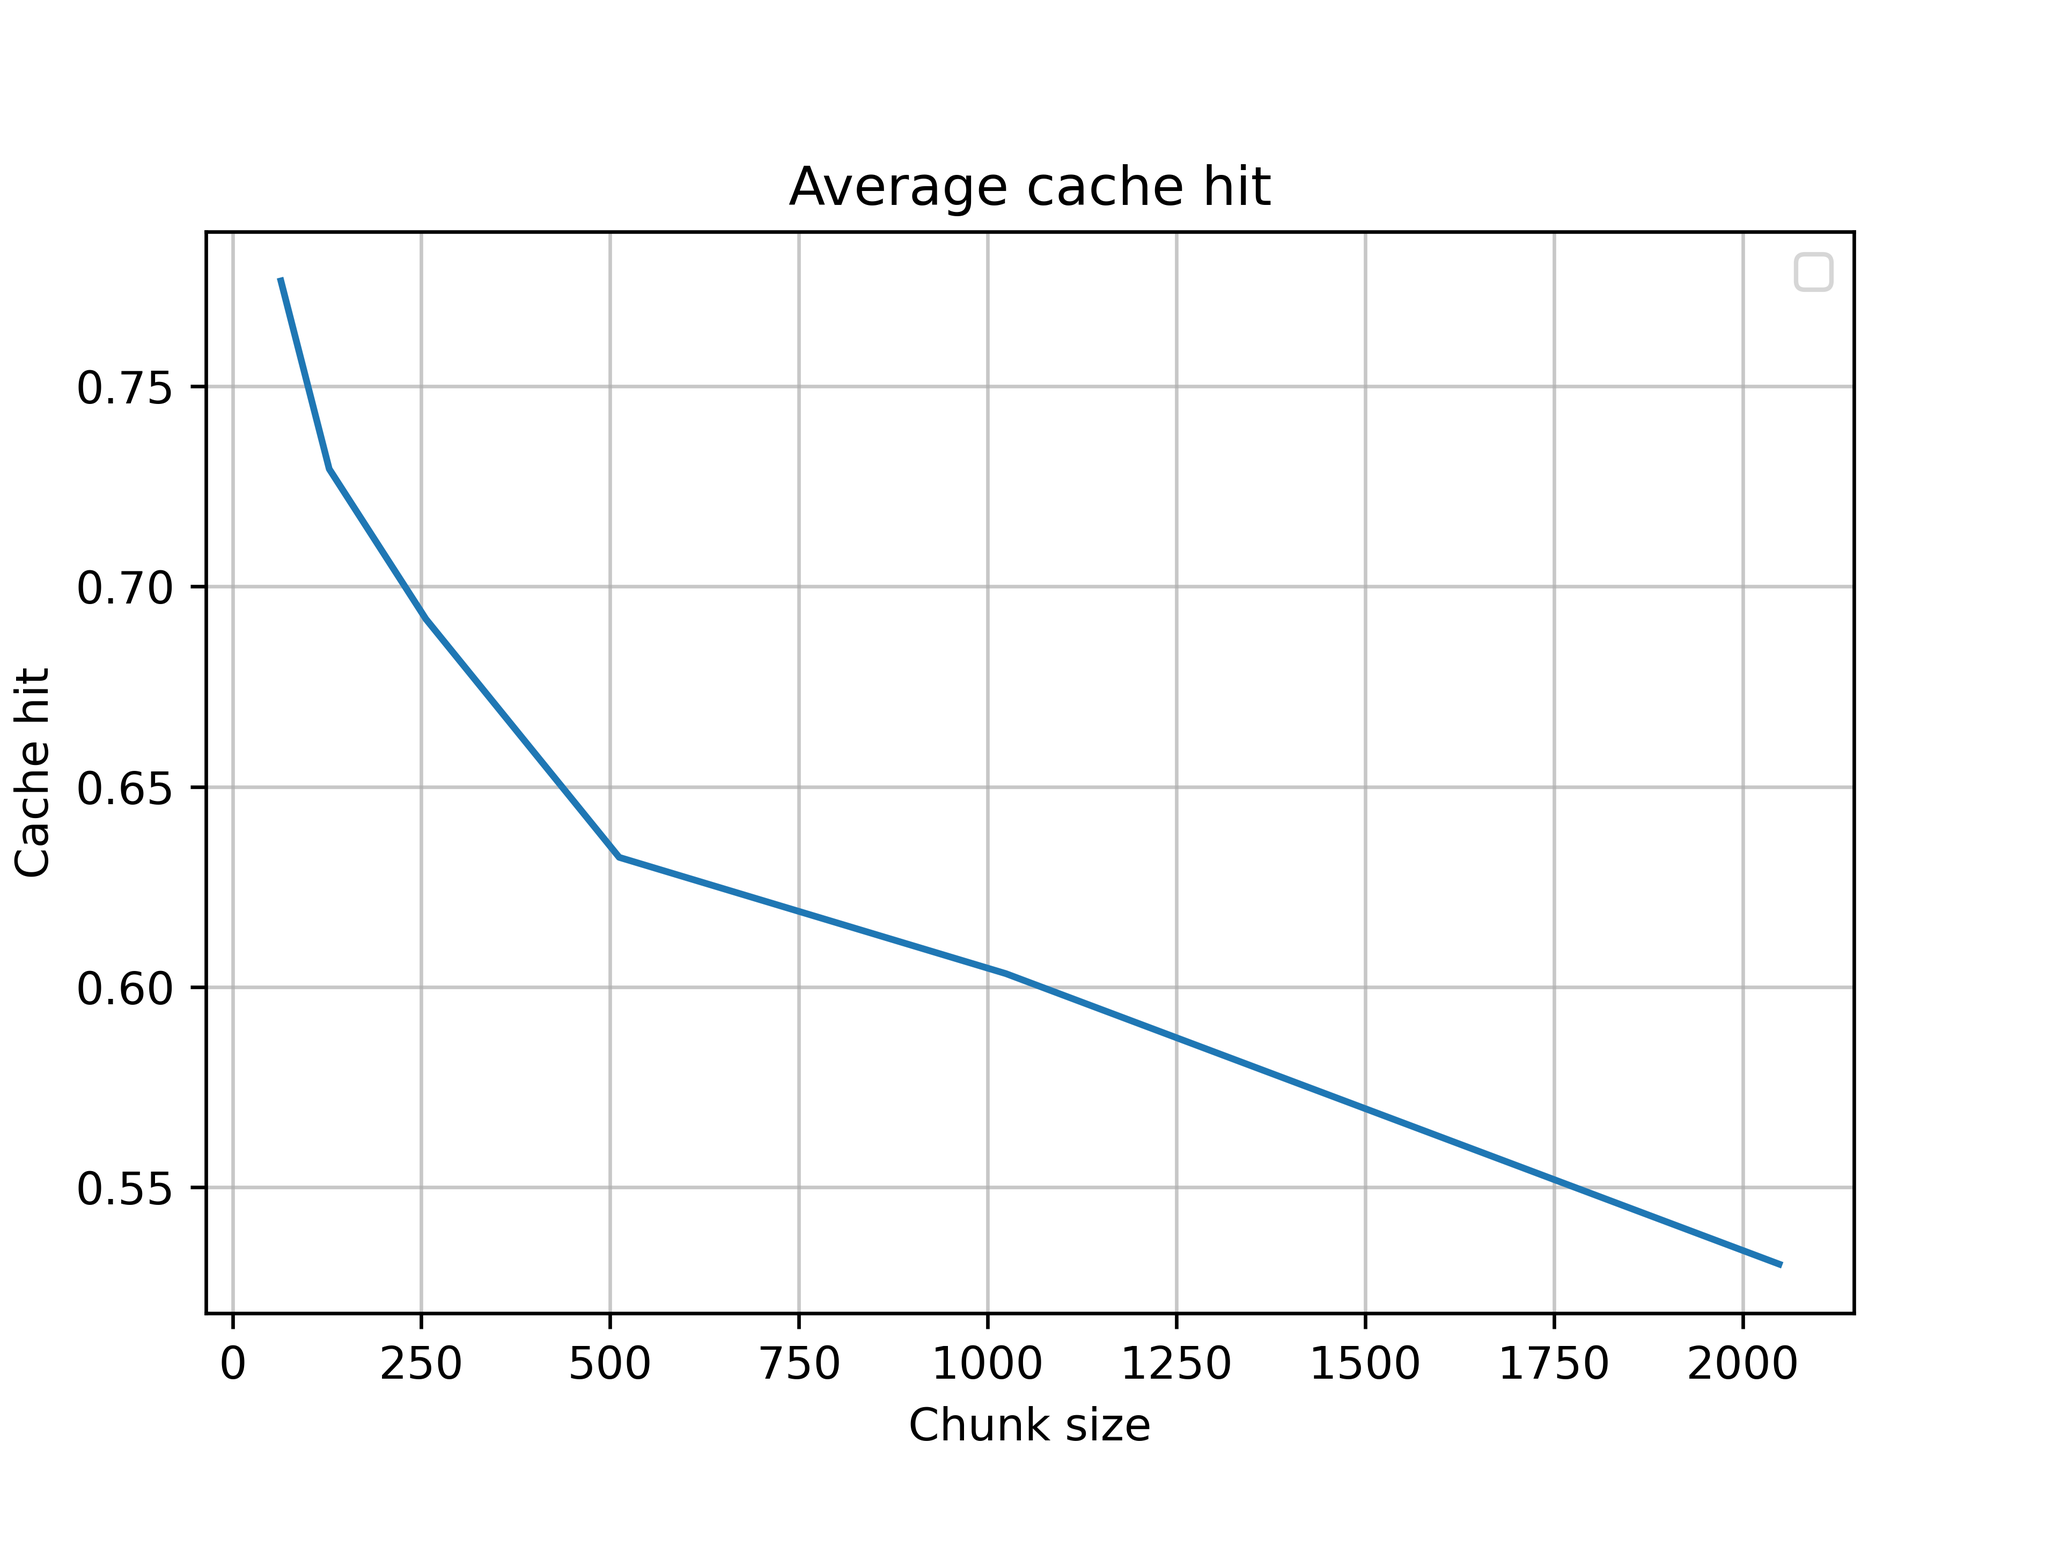
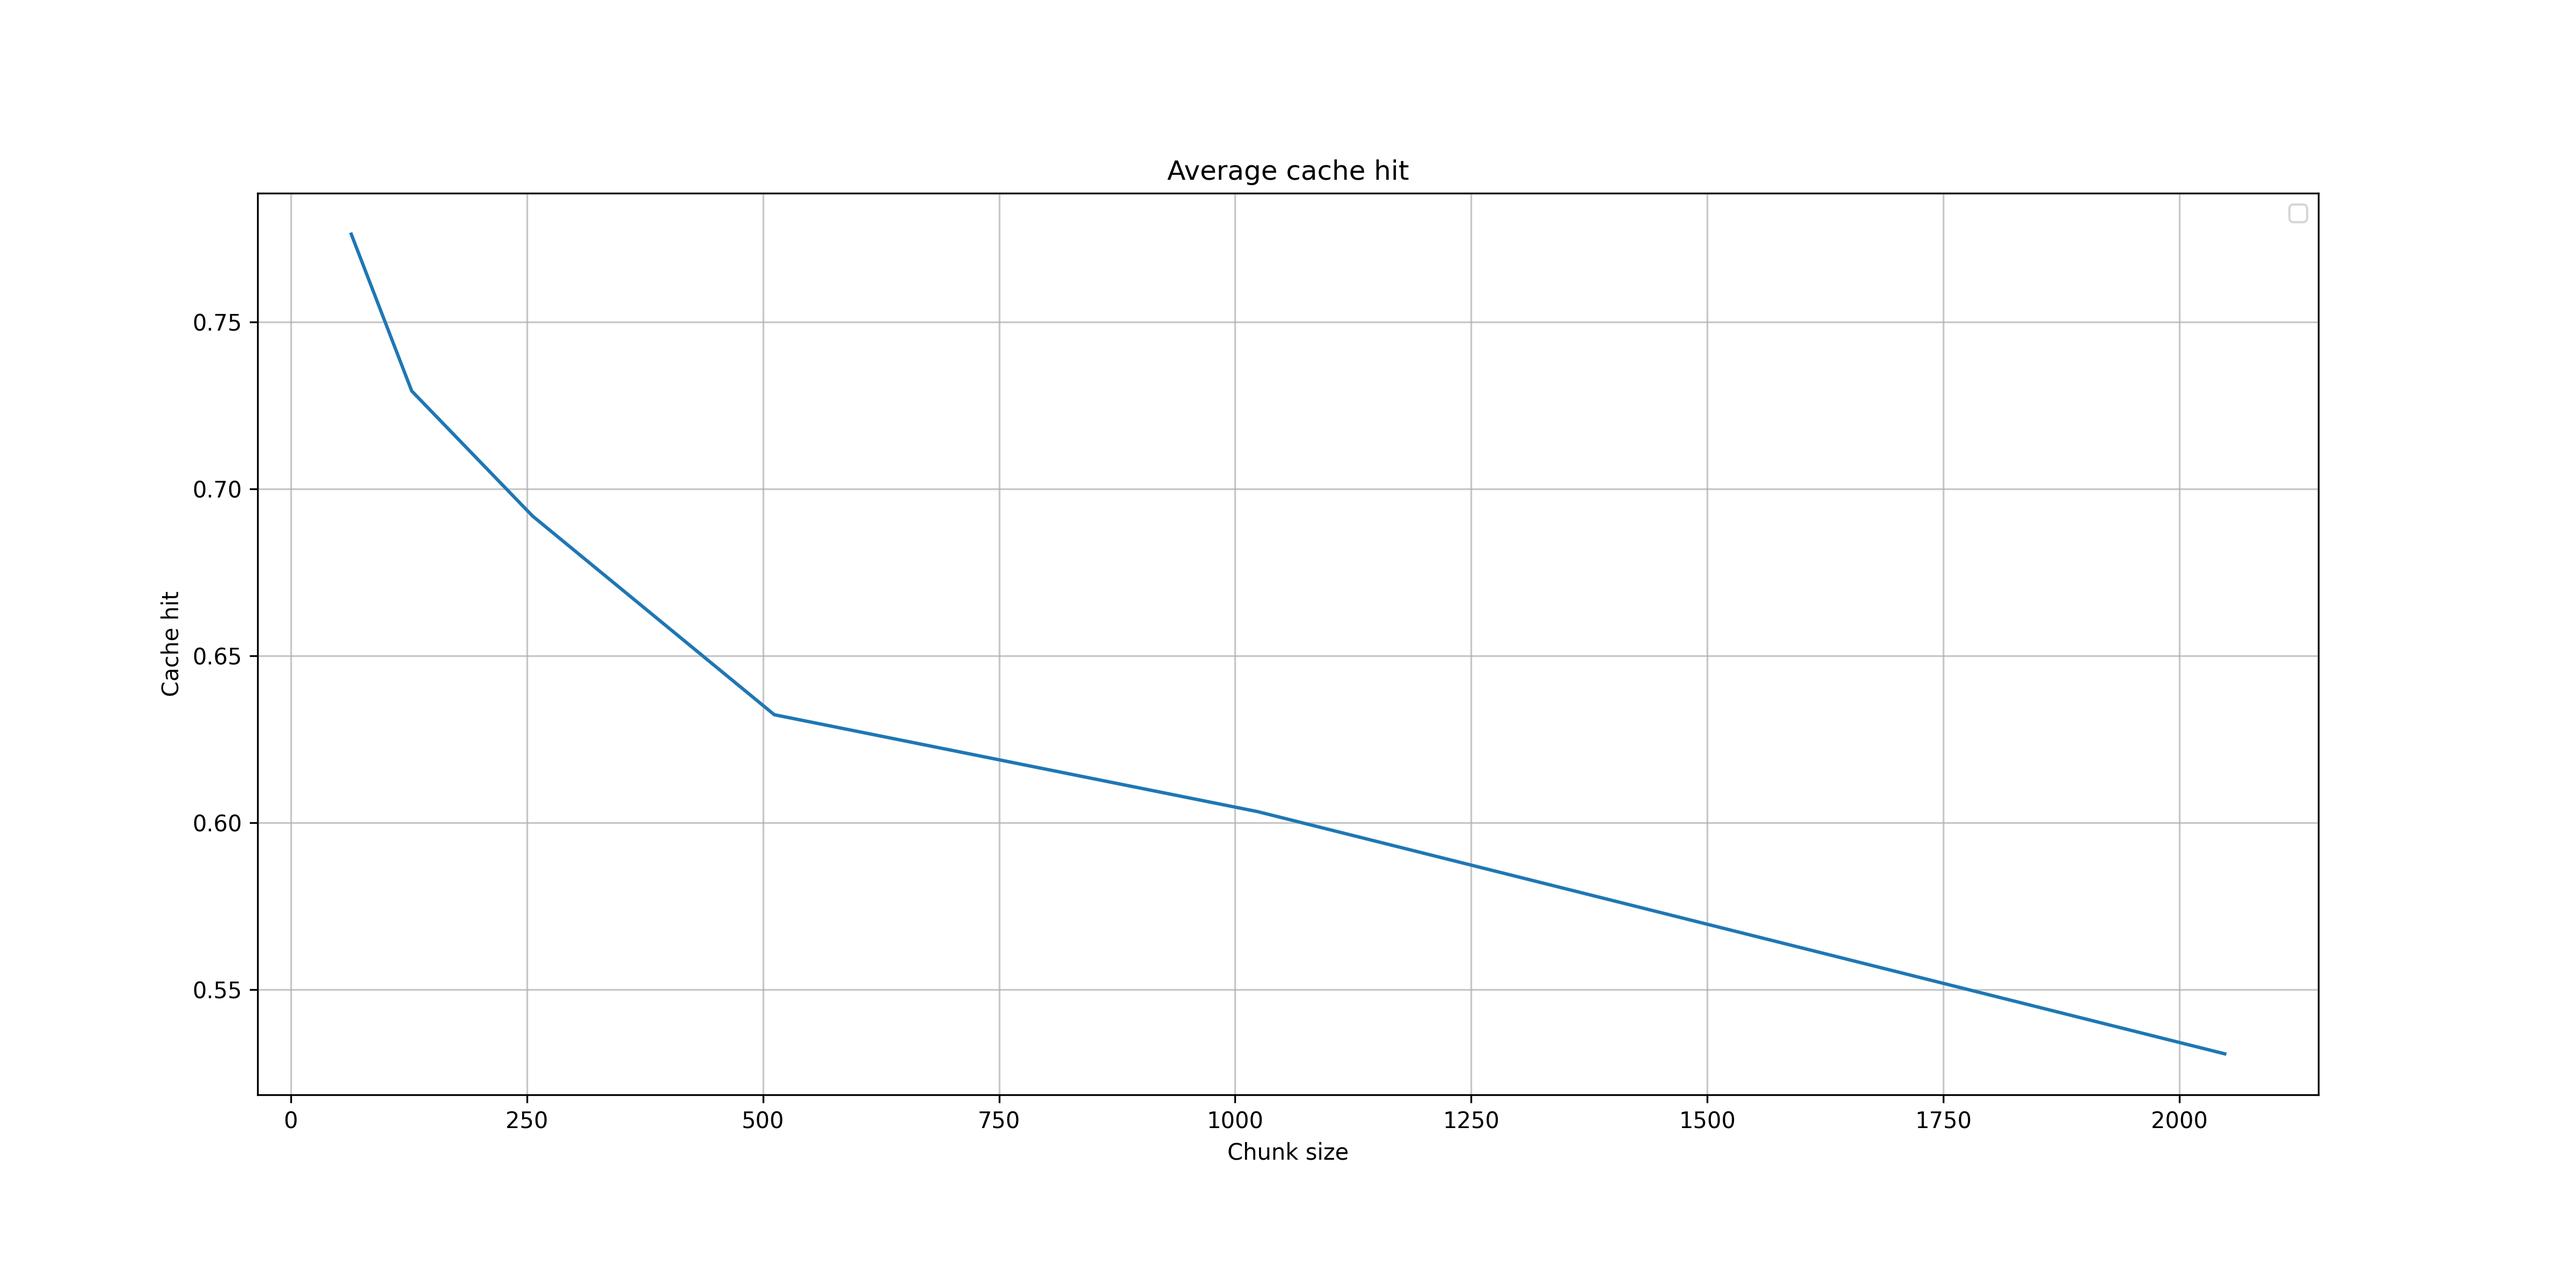
traffic for postgres with zsync

diff --git a/util/plot.py b/util/plot.py
@@ -2,7 +2,7 @@ import matplotlib.pyplot as plt
 from typing import Dict, List
 from dataclasses import dataclass
 
-SCREEN_DPI = 600
+SCREEN_DPI = 300
 
 
 @dataclass
@@ -20,13 +20,12 @@ def make_plot(
     ylabel="Time",
     verbose=False,
 ):
-    figure = plt.figure()
+    figure = plt.figure(figsize=(16, 8))
 
     axes = figure.add_axes((0.1, 0.15, 0.8, 0.7))
     axes.spines[["top", "bottom", "left", "right"]].set_visible(True)
     axes.grid(which="minor", alpha=0.35)
     axes.grid(which="major", alpha=0.7)
-
     axes.set_xlabel(xlabel)
     axes.set_ylabel(ylabel)
 

diff --git a/main.py b/main.py
@@ -71,7 +71,7 @@ def preprocess(config, chunk_sizes):
         if check_need_for_preprocess(transmitter_name, config.versions):
             transmitter_class = const.OTHER_TRANSMITTERS[transmitter_name]
             preproccess_no_cas_transmitter(
-                transmitter_name,
+                transmitter_class,
                 sources_list=[
                     version.src_path[f"{transmitter_name}_local"]
                     for version in config.versions
